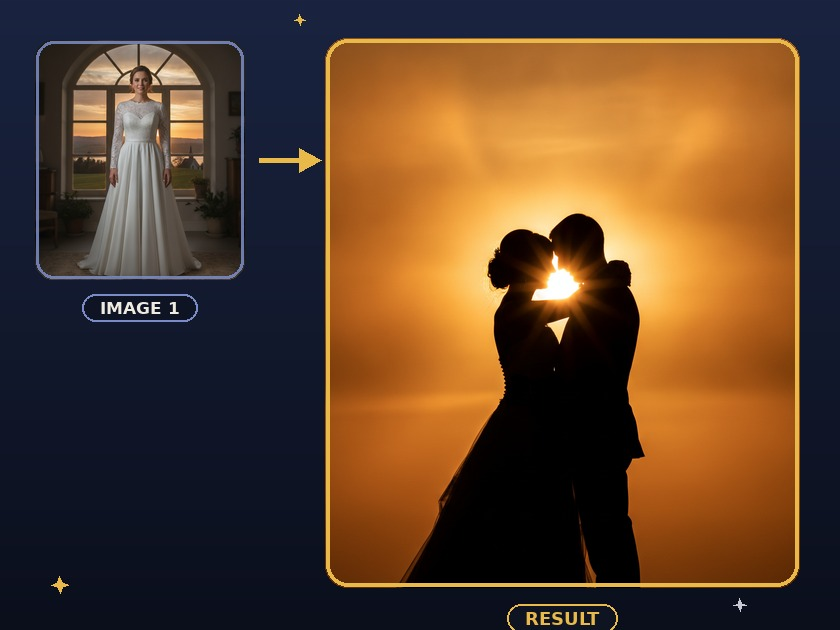
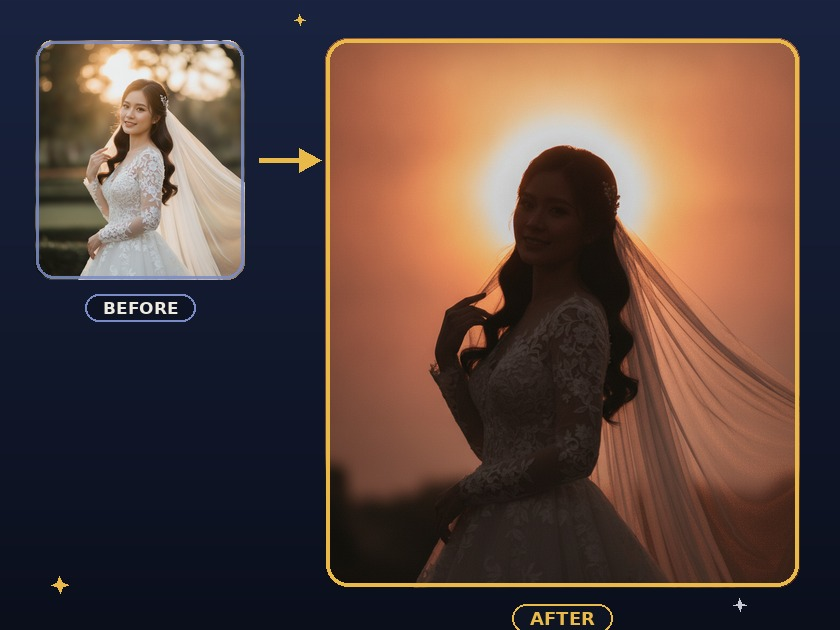
v4.20.18: make silhouette-romance warm/romantic instead of scary (#125)
* v4.7.2: fix stale-version banner falsely firing on any version mismatch

The update-available toast compared version.json to APP_VER with !== instead
of a real newer-than check, so a stale/CDN-cached version.json serving an
OLDER value (observed live: a "3.8.0" banner while already on v4.7.1) wrongly
told users a new build had shipped. Added a semver-style verNewer() compare
so the toast only fires when the fetched version is genuinely newer.

Discovered from a user screenshot of the live Setup page while confirming
Gemini/RunningHub/OpenAI key verification all work end-to-end.

* v4.8.0: rebuild RunningHub Enterprise on the real Standard Model API

The RunningHub integration was built against a guessed API shape
(webappId + nodeInfoList, apiKey in the body) that turned out not to match
what Enterprise-Shared keys actually use. Working with a real key against
RunningHub's live docs and its published model-registry.public.json, the
actual API is the "Standard Model API" (openapi/v2): a fixed per-model
endpoint path, Bearer-token auth, and a JSON body — no app/workflow
node-ID mapping needed at all.

Rewrote the client: rhV2Upload/Submit/Query/PollUntilDone/GenerateOne
replace the old upload/run/status/outputs functions. Nano Banana 2
(rhart-image-n-g31-flash/image-to-image) ships as a built-in default
apiPath, confirmed end-to-end against the live docs and registry, so it
now works the instant a key is saved — no per-model setup. Other models
[…]

diff --git a/docs/app/sw.js b/docs/app/sw.js
@@ -1,6 +1,6 @@
 /* HNK Web Studio service worker — cache-first for library assets,
    network-first for everything else (so app updates arrive immediately). */
-var CACHE = "hnk-web-studio-v4-20-17";
+var CACHE = "hnk-web-studio-v4-20-18";
 var OFFLINE_URL = "./index.html";
 
 self.addEventListener("install", function (e) {

diff --git a/docs/app/index.html b/docs/app/index.html
@@ -3941,7 +3941,7 @@ if ("serviceWorker" in navigator) {
 }
 
 /* version check: tell cached users when a new build ships */
-var APP_VER="4.20.17";
+var APP_VER="4.20.18";
 (function(){
   var vv="v"+APP_VER;
   var nv=document.getElementById("navVer"); if(nv) nv.textContent=vv;
